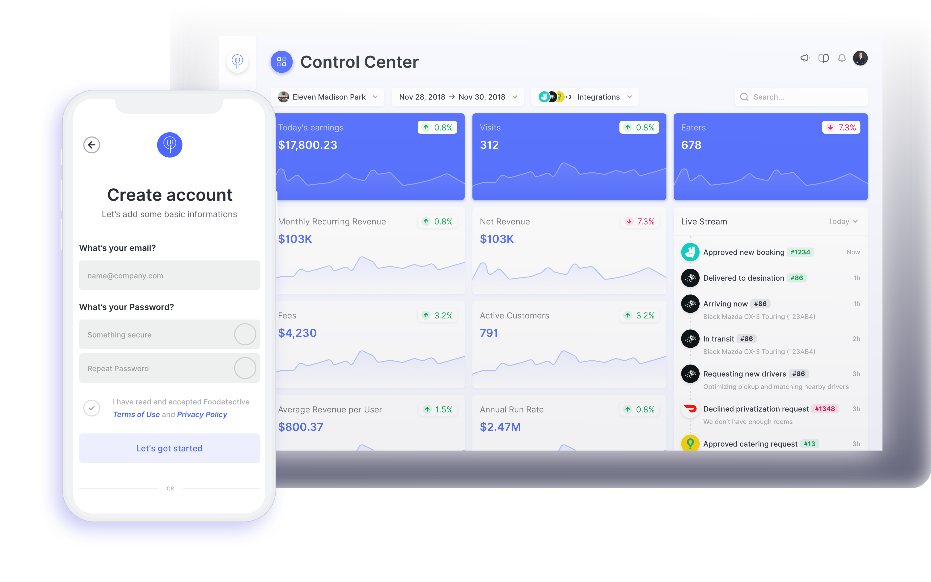
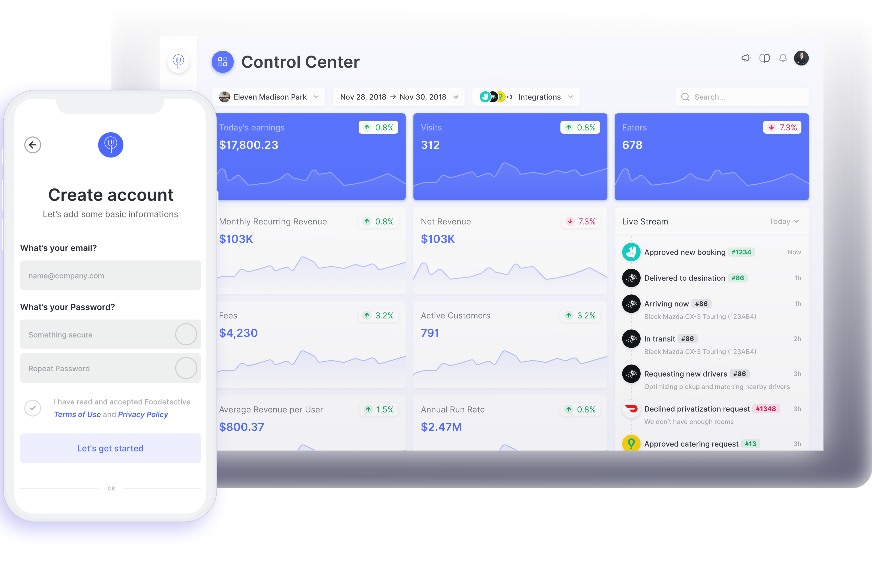
fix aligment of items

diff --git a/sections/landing/TopSection/styled.js b/sections/landing/TopSection/styled.js
@@ -25,15 +25,16 @@ export const ParagraphStyled = styled(Paragraph)`
 export const Image = styled.div`
   width: 100%;
   height: 100%;
-  min-height: 400px;
+  min-height: 50vh;
   max-height: 500px;
   background-image: url("/static/img/topsection/dashboard.png");
   background-repeat: no-repeat;
-  background-position: top left;
+  background-position: center center;
   background-size: contain;
   @media (min-width: ${p => p.theme.breakpoints[0]}) {
     width: 100vw;
     min-height: 600px;
     max-height: 800px;
+    background-position: top left;
   }
 `;

diff --git a/sections/landing/TopSection/index.jsx b/sections/landing/TopSection/index.jsx
@@ -6,7 +6,7 @@ import { FontAwesomeIcon } from "@fortawesome/react-fontawesome";
 import { H1Styled, ParagraphStyled, Image } from "./styled";
 
 const TopSection = ({ t, lng }) => (
-  <Box mb={[1, 1]} mt={[60, 80]} width={1}>
+  <Box mb={[1, 1]} mt={[30, 80]} width={1}>
     <Flex alignItems="start" flexWrap="wrap" m="auto" width={[1, 1150]} px={3}>
       <Box width={[1, 1 / 2]} p={[3, 0]}>
         <H1Styled>{`${t("topSection.header.start")}${t(

diff --git a/sections/landing/Navigation/index.jsx b/sections/landing/Navigation/index.jsx
@@ -66,9 +66,10 @@ const Navigation = ({ t, lng, scrollTo }) => (
     </Flex>
     <Flex
       width={1}
-      flexDirection="row"
+      flexDirection={["column", "row"]}
       justifyContent="space-between"
       alignItems="center"
+      mt={[20, 0]}
     >
       <StyledHeaderParagraph>
         Foodetective <span> For Business</span>
